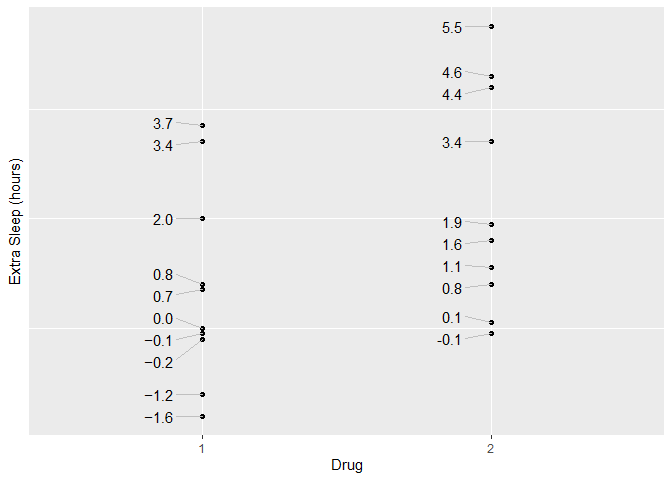
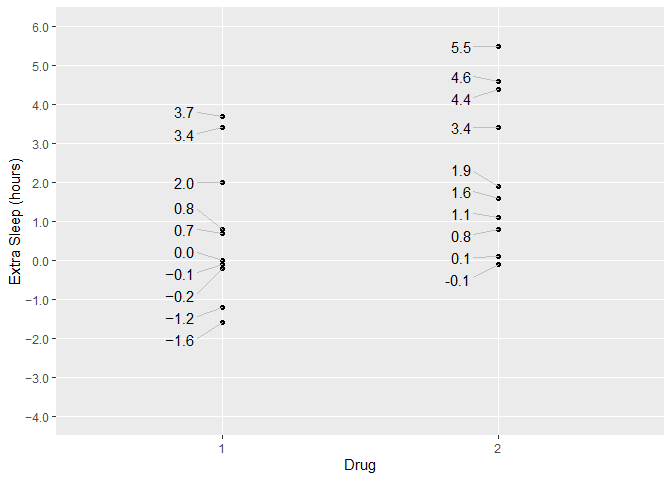
added utils::globalVariables() to appease devtools::check(), and incremented package version to first minor release - also made minor tweaks to the readme and added my middle initial as package author

diff --git a/docs/index.html b/docs/index.html
@@ -40,7 +40,7 @@
       </button>
       <span class="navbar-brand">
         <a class="navbar-link" href="index.html">signs</a>
-        <span class="version label label-default" data-toggle="tooltip" data-placement="bottom" title="Released version">0.0.0.9000</span>
+        <span class="version label label-default" data-toggle="tooltip" data-placement="bottom" title="Released version">0.1.0</span>
       </span>
     </div>
 
@@ -94,10 +94,11 @@
 <div class="sourceCode"><pre class="sourceCode r"><code class="sourceCode r"><span class="co"># install.packages("devtools")</span>
 devtools<span class="op">::</span><span class="kw"><a href="https://rdrr.io/pkg/devtools/man/remote-reexports.html">install_github</a></span>(<span class="st">"BenjaminWolfe/signs"</span>)</code></pre></div>
 </div>
-<div id="examples" class="section level2">
+<div id="example" class="section level2">
 <h2 class="hasAnchor">
-<a href="#examples" class="anchor"></a>Examples</h2>
-<p>Using <code>signs</code> is simple, especially if you’re familiar with functions like <code>number()</code>, <code>number_format()</code>, <code>comma()</code>, <code>comma_format()</code>, <code>percent()</code>, and <code>percent_format()</code> from the <a href="https://scales.r-lib.org/reference/number_format.html"><code>scales</code></a> package. The package adds 2 functions analogous to these: <code><a href="reference/signs.html">signs()</a></code> and <code><a href="reference/signs_format.html">signs_format()</a></code>.</p>
+<a href="#example" class="anchor"></a>Example</h2>
+<p>Using <code>signs</code> is simple, especially if you’re familiar with functions like <code><a href="https://rdrr.io/pkg/scales/man/number_format.html">scales::number()</a></code>, <code><a href="https://rdrr.io/pkg/scales/man/number_format.html">scales::number_format()</a></code>, <code><a href="https://rdrr.io/pkg/scales/man/number_format.html">scales::comma()</a></code>, <code><a href="https://rdrr.io/pkg/scales/man/number_format.html">scales::comma_format()</a></code>, <code><a href="https://rdrr.io/pkg/scales/man/number_format.html">scales::percent()</a></code>, and <code><a href="https://rdrr.io/pkg/scales/man/number_format.html">scales::percent_format()</a></code>.</p>
+<p>See <code><a href="articles/signs.html">vignette("signs")</a></code> for a full tour of the package.</p>
 <div id="fixed-width-fonts-indistinguishable" class="section level3">
 <h3 class="hasAnchor">
 <a href="#fixed-width-fonts-indistinguishable" class="anchor"></a>Fixed-Width Fonts (indistinguishable)</h3>
@@ -108,6 +109,7 @@ devtools<span class="op">::</span><span class="kw"><a href="https://rdrr.io/pkg/
 x &lt;-<span class="st"> </span><span class="kw"><a href="https://rdrr.io/r/base/seq.html">seq</a></span>(<span class="op">-</span><span class="dv">4</span>, <span class="dv">4</span>)
 <span class="kw">number</span>(x)
 <span class="co">#&gt; [1] "-4" "-3" "-2" "-1" "0"  "1"  "2"  "3"  "4"</span>
+
 <span class="kw"><a href="reference/signs.html">signs</a></span>(x)
 <span class="co">#&gt; [1] "-4" "-3" "-2" "-1" "0"  "1"  "2"  "3"  "4"</span></code></pre></div>
 </div>
@@ -116,8 +118,8 @@ x &lt;-<span class="st"> </span><span class="kw"><a href="https://rdrr.io/r/base
 <a href="#plots-distinguishable" class="anchor"></a>Plots (distinguishable)</h3>
 <p>We can see the difference in a plot.</p>
 <ul>
-<li>Points in group 1 are labeled with a true Unicode minus glyph.</li>
-<li>Points in group 2 are labeled with the traditional ASCII hyphen-minus.</li>
+<li>Points in group 1 are labeled with a true Unicode minus glyph: <code><a href="reference/signs.html">signs()</a></code>. So is the y-axis: <code><a href="reference/signs_format.html">signs_format()</a></code>.</li>
+<li>Points in group 2 are labeled with the traditional ASCII hyphen-minus: <code><a href="https://rdrr.io/pkg/scales/man/number_format.html">scales::number()</a></code>.</li>
 <li>Usage is identical.</li>
 </ul>
 <div class="sourceCode"><pre class="sourceCode r"><code class="sourceCode r"><span class="kw"><a href="https://rdrr.io/r/base/library.html">library</a></span>(dplyr)
@@ -125,11 +127,7 @@ x &lt;-<span class="st"> </span><span class="kw"><a href="https://rdrr.io/r/base
 <span class="kw"><a href="https://rdrr.io/r/base/library.html">library</a></span>(ggrepel)
 
 <span class="kw">theme_set</span>(<span class="kw">theme_gray</span>())
-<span class="kw">theme_update</span>(
-  <span class="dt">panel.grid.minor =</span> <span class="kw">element_blank</span>(),
-  <span class="dt">axis.text.y =</span> <span class="kw">element_blank</span>(),
-  <span class="dt">axis.ticks.y =</span> <span class="kw">element_blank</span>()
-)
+<span class="kw">theme_update</span>(<span class="dt">panel.grid.minor =</span> <span class="kw">element_blank</span>())
 
 p &lt;-<span class="st"> </span>
 <span class="st">  </span><span class="kw">ggplot</span>(sleep) <span class="op">+</span>
@@ -151,15 +149,19 @@ label_hours &lt;-<span class="st"> </span><span class="cf">function</span>(mappi
 
 p <span class="op">+</span>
 <span class="st">  </span><span class="kw">label_hours</span>(
-    <span class="kw">aes</span>(
+    <span class="dt">mapping =</span> <span class="kw">aes</span>(
       <span class="dt">label =</span> <span class="kw">case_when</span>(
-        group <span class="op">==</span><span class="st"> </span><span class="dv">1</span> <span class="op">~</span><span class="st"> </span><span class="kw"><a href="reference/signs.html">signs</a></span>(extra, <span class="dt">accuracy =</span> .<span class="dv">1</span>),
-        group <span class="op">==</span><span class="st"> </span><span class="dv">2</span> <span class="op">~</span><span class="st"> </span><span class="kw">number</span>(extra, <span class="dt">accuracy =</span> .<span class="dv">1</span>)
+        group <span class="op">==</span><span class="st"> </span><span class="dv">1</span> <span class="op">~</span><span class="st"> </span><span class="kw"><a href="reference/signs.html">signs</a></span>(extra, <span class="dt">accuracy =</span> .<span class="dv">1</span>), <span class="co"># Unicode minuses</span>
+        group <span class="op">==</span><span class="st"> </span><span class="dv">2</span> <span class="op">~</span><span class="st"> </span><span class="kw">number</span>(extra, <span class="dt">accuracy =</span> .<span class="dv">1</span>) <span class="co"># ASCII minuses</span>
       )
     )
+  ) <span class="op">+</span>
+<span class="st">  </span><span class="kw">scale_y_continuous</span>(
+    <span class="dt">limits =</span> <span class="kw"><a href="https://rdrr.io/r/base/c.html">c</a></span>(<span class="op">-</span><span class="dv">4</span>, <span class="dv">6</span>),
+    <span class="dt">breaks =</span> <span class="kw"><a href="https://rdrr.io/r/base/seq.html">seq</a></span>(<span class="op">-</span><span class="dv">4</span>, <span class="dv">6</span>),
+    <span class="dt">labels =</span> <span class="kw"><a href="reference/signs_format.html">signs_format</a></span>(<span class="dt">accuracy =</span> .<span class="dv">1</span>) <span class="co"># Unicode, analogous to number_format() </span>
   )</code></pre></div>
 <p><img src="reference/figures/README-plots-1.png" width="100%"></p>
-<p>Please see <code><a href="articles/signs.html">vignette("signs")</a></code> for more information.</p>
 </div>
 </div>
 </div>
@@ -177,7 +179,7 @@ p <span class="op">+</span>
 <div class="developers">
 <h2>Developers</h2>
 <ul class="list-unstyled">
-<li>Benjamin Wolfe <br><small class="roles"> Author, maintainer </small> <a href="https://orcid.org/0000-0002-4339-9328" target="orcid.widget"><img src="https://members.orcid.org/sites/default/files/vector_iD_icon.svg" class="orcid" alt="ORCID"></a> </li>
+<li>Benjamin E. Wolfe <br><small class="roles"> Author, maintainer </small> <a href="https://orcid.org/0000-0002-4339-9328" target="orcid.widget"><img src="https://members.orcid.org/sites/default/files/vector_iD_icon.svg" class="orcid" alt="ORCID"></a> </li>
 </ul>
 </div>
 
@@ -192,7 +194,7 @@ p <span class="op">+</span>
 
 
       <footer><div class="copyright">
-  <p>Developed by Benjamin Wolfe.</p>
+  <p>Developed by Benjamin E. Wolfe.</p>
 </div>
 
 <div class="pkgdown">

diff --git a/docs/authors.html b/docs/authors.html
@@ -76,7 +76,7 @@
       </button>
       <span class="navbar-brand">
         <a class="navbar-link" href="index.html">signs</a>
-        <span class="version label label-default" data-toggle="tooltip" data-placement="bottom" title="Released version">0.0.0.9000</span>
+        <span class="version label label-default" data-toggle="tooltip" data-placement="bottom" title="Released version">0.1.0</span>
       </span>
     </div>
 
@@ -115,7 +115,7 @@
 
     <ul class="list-unstyled">
       <li>
-        <p><strong>Benjamin Wolfe</strong>. Author, maintainer. <a href='https://orcid.org/0000-0002-4339-9328' target='orcid.widget'><img src='https://members.orcid.org/sites/default/files/vector_iD_icon.svg' class='orcid' alt='ORCID'></a>
+        <p><strong>Benjamin E. Wolfe</strong>. Author, maintainer. <a href='https://orcid.org/0000-0002-4339-9328' target='orcid.widget'><img src='https://members.orcid.org/sites/default/files/vector_iD_icon.svg' class='orcid' alt='ORCID'></a>
         </p>
       </li>
     </ul>
@@ -128,7 +128,7 @@
 
       <footer>
       <div class="copyright">
-  <p>Developed by Benjamin Wolfe.</p>
+  <p>Developed by Benjamin E. Wolfe.</p>
 </div>
 
 <div class="pkgdown">

diff --git a/docs/LICENSE-text.html b/docs/LICENSE-text.html
@@ -76,7 +76,7 @@
       </button>
       <span class="navbar-brand">
         <a class="navbar-link" href="index.html">signs</a>
-        <span class="version label label-default" data-toggle="tooltip" data-placement="bottom" title="Released version">0.0.0.9000</span>
+        <span class="version label label-default" data-toggle="tooltip" data-placement="bottom" title="Released version">0.1.0</span>
       </span>
     </div>
 
@@ -114,7 +114,7 @@
     </div>
 
 <pre>YEAR: 2019
-COPYRIGHT HOLDER: Benjamin Wolfe
+COPYRIGHT HOLDER: Benjamin E. Wolfe
 </pre>
 
   </div>
@@ -125,7 +125,7 @@ COPYRIGHT HOLDER: Benjamin Wolfe
 
       <footer>
       <div class="copyright">
-  <p>Developed by Benjamin Wolfe.</p>
+  <p>Developed by Benjamin E. Wolfe.</p>
 </div>
 
 <div class="pkgdown">

diff --git a/docs/reference/signs.html b/docs/reference/signs.html
@@ -80,7 +80,7 @@ It makes everything look better!" />
       </button>
       <span class="navbar-brand">
         <a class="navbar-link" href="../index.html">signs</a>
-        <span class="version label label-default" data-toggle="tooltip" data-placement="bottom" title="Released version">0.0.0.9000</span>
+        <span class="version label label-default" data-toggle="tooltip" data-placement="bottom" title="Released version">0.1.0</span>
       </span>
     </div>
 
@@ -207,7 +207,7 @@ and you've specified an accuracy of <code>0.1</code>,
 
       <footer>
       <div class="copyright">
-  <p>Developed by Benjamin Wolfe.</p>
+  <p>Developed by Benjamin E. Wolfe.</p>
 </div>
 
 <div class="pkgdown">

diff --git a/docs/reference/signs_format.html b/docs/reference/signs_format.html
@@ -78,7 +78,7 @@ with proper minus signs." />
       </button>
       <span class="navbar-brand">
         <a class="navbar-link" href="../index.html">signs</a>
-        <span class="version label label-default" data-toggle="tooltip" data-placement="bottom" title="Released version">0.0.0.9000</span>
+        <span class="version label label-default" data-toggle="tooltip" data-placement="bottom" title="Released version">0.1.0</span>
       </span>
     </div>
 
@@ -200,7 +200,7 @@ or <code>"symbol"</code> (add a plus-minus symbol).</p></td>
 
       <footer>
       <div class="copyright">
-  <p>Developed by Benjamin Wolfe.</p>
+  <p>Developed by Benjamin E. Wolfe.</p>
 </div>
 
 <div class="pkgdown">

diff --git a/docs/404.html b/docs/404.html
@@ -76,7 +76,7 @@
       </button>
       <span class="navbar-brand">
         <a class="navbar-link" href="index.html">signs</a>
-        <span class="version label label-default" data-toggle="tooltip" data-placement="bottom" title="Released version">0.0.0.9000</span>
+        <span class="version label label-default" data-toggle="tooltip" data-placement="bottom" title="Released version">0.1.0</span>
       </span>
     </div>
 
@@ -123,7 +123,7 @@ Content not found. Please use links in the navbar.
 
       <footer>
       <div class="copyright">
-  <p>Developed by Benjamin Wolfe.</p>
+  <p>Developed by Benjamin E. Wolfe.</p>
 </div>
 
 <div class="pkgdown">

diff --git a/docs/articles/signs.html b/docs/articles/signs.html
@@ -38,7 +38,7 @@
       </button>
       <span class="navbar-brand">
         <a class="navbar-link" href="../index.html">signs</a>
-        <span class="version label label-default" data-toggle="tooltip" data-placement="bottom" title="Released version">0.0.0.9000</span>
+        <span class="version label label-default" data-toggle="tooltip" data-placement="bottom" title="Released version">0.1.0</span>
       </span>
     </div>
 
@@ -343,7 +343,7 @@ p <span class="op">+</span>
 
 
       <footer><div class="copyright">
-  <p>Developed by Benjamin Wolfe.</p>
+  <p>Developed by Benjamin E. Wolfe.</p>
 </div>
 
 <div class="pkgdown">

diff --git a/docs/articles/index.html b/docs/articles/index.html
@@ -76,7 +76,7 @@
       </button>
       <span class="navbar-brand">
         <a class="navbar-link" href="../index.html">signs</a>
-        <span class="version label label-default" data-toggle="tooltip" data-placement="bottom" title="Released version">0.0.0.9000</span>
+        <span class="version label label-default" data-toggle="tooltip" data-placement="bottom" title="Released version">0.1.0</span>
       </span>
     </div>
 
@@ -127,7 +127,7 @@
 
       <footer>
       <div class="copyright">
-  <p>Developed by Benjamin Wolfe.</p>
+  <p>Developed by Benjamin E. Wolfe.</p>
 </div>
 
 <div class="pkgdown">

diff --git a/docs/reference/index.html b/docs/reference/index.html
@@ -76,7 +76,7 @@
       </button>
       <span class="navbar-brand">
         <a class="navbar-link" href="../index.html">signs</a>
-        <span class="version label label-default" data-toggle="tooltip" data-placement="bottom" title="Released version">0.0.0.9000</span>
+        <span class="version label label-default" data-toggle="tooltip" data-placement="bottom" title="Released version">0.1.0</span>
       </span>
     </div>
 
@@ -156,7 +156,7 @@
 
       <footer>
       <div class="copyright">
-  <p>Developed by Benjamin Wolfe.</p>
+  <p>Developed by Benjamin E. Wolfe.</p>
 </div>
 
 <div class="pkgdown">

diff --git a/README.md b/README.md
@@ -29,10 +29,12 @@ Installation
 devtools::install_github("BenjaminWolfe/signs")
 ```
 
-Examples
---------
+Example
+-------
 
-Using `signs` is simple, especially if you're familiar with functions like `number()`, `number_format()`, `comma()`, `comma_format()`, `percent()`, and `percent_format()` from the [`scales`](https://scales.r-lib.org/reference/number_format.html) package. The package adds 2 functions analogous to these: `signs()` and `signs_format()`.
+Using `signs` is simple, especially if you're familiar with functions like `scales::number()`, `scales::number_format()`, `scales::comma()`, `scales::comma_format()`, `scales::percent()`, and `scales::percent_format()`.
+
+See `vignette("signs")` for a full tour of the package.
 
 ### Fixed-Width Fonts (indistinguishable)
 
@@ -45,6 +47,7 @@ library(signs)
 x <- seq(-4, 4)
 number(x)
 #> [1] "-4" "-3" "-2" "-1" "0"  "1"  "2"  "3"  "4"
+
 signs(x)
 #> [1] "-4" "-3" "-2" "-1" "0"  "1"  "2"  "3"  "4"
 ```
@@ -53,8 +56,8 @@ signs(x)
 
 We can see the difference in a plot.
 
--   Points in group 1 are labeled with a true Unicode minus glyph.
--   Points in group 2 are labeled with the traditional ASCII hyphen-minus.
+-   Points in group 1 are labeled with a true Unicode minus glyph: `signs()`. So is the y-axis: `signs_format()`.
+-   Points in group 2 are labeled with the traditional ASCII hyphen-minus: `scales::number()`.
 -   Usage is identical.
 
 ``` r
@@ -63,11 +66,7 @@ library(ggplot2)
 library(ggrepel)
 
 theme_set(theme_gray())
-theme_update(
-  panel.grid.minor = element_blank(),
-  axis.text.y = element_blank(),
-  axis.ticks.y = element_blank()
-)
+theme_update(panel.grid.minor = element_blank())
 
 p <- 
   ggplot(sleep) +
@@ -89,15 +88,18 @@ label_hours <- function(mapping) {
 
 p +
   label_hours(
-    aes(
+    mapping = aes(
       label = case_when(
-        group == 1 ~ signs(extra, accuracy = .1),
-        group == 2 ~ number(extra, accuracy = .1)
+        group == 1 ~ signs(extra, accuracy = .1), # Unicode minuses
+        group == 2 ~ number(extra, accuracy = .1) # ASCII minuses
       )
     )
+  ) +
+  scale_y_continuous(
+    limits = c(-4, 6),
+    breaks = seq(-4, 6),
+    labels = signs_format(accuracy = .1) # Unicode, analogous to number_format() 
   )
 ```
 
 <img src="man/figures/README-plots-1.png" width="100%" />
-
-Please see `vignette("signs")` for more information.
